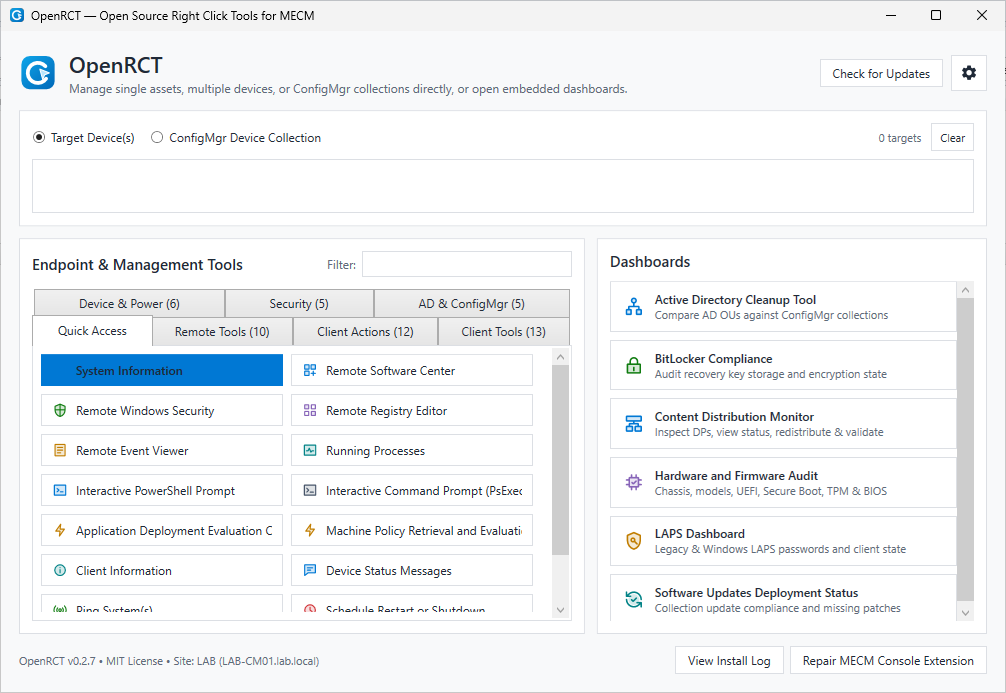
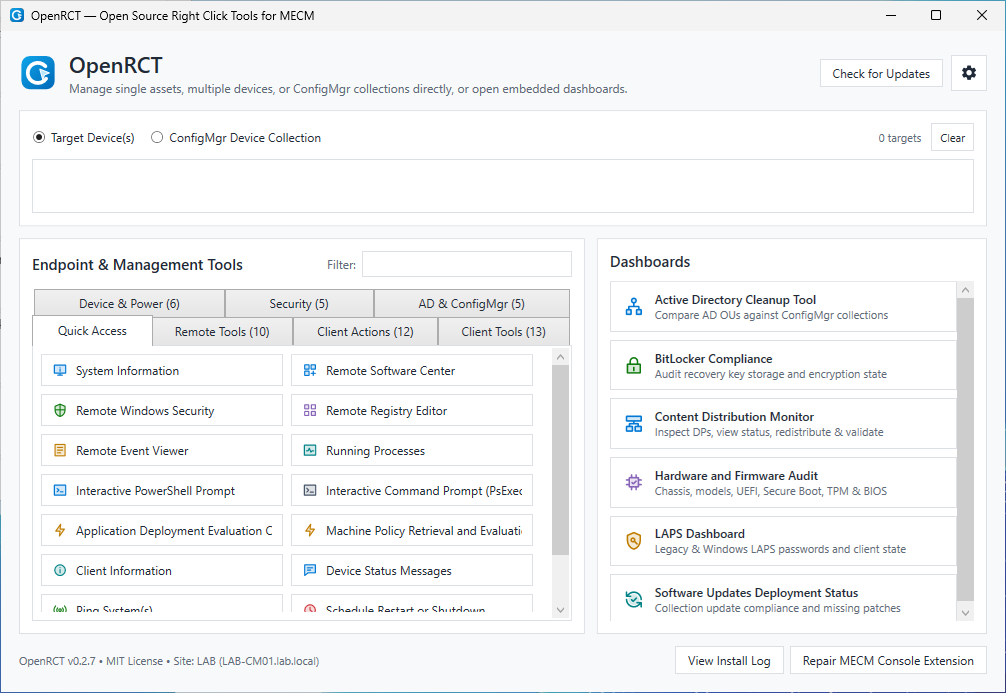
UI: Escape ampersands in DisplayName for MECM context menus, update launcher screenshot, bump to 0.2.8

Changed region(s): [[0.0308, 0.4848, 0.3082, 0.5758], [0.9861, 0.9697, 1.0, 1.0], [0.9861, 0.0, 1.0, 0.0303]]

diff --git a/tests/OpenRCT.Tests/SecurityAndEventViewerTests.cs b/tests/OpenRCT.Tests/SecurityAndEventViewerTests.cs
@@ -99,9 +99,9 @@ namespace OpenRCT.Tests
                 "Remote Tools",
                 "Client Actions",
                 "Client Tools",
-                "Device & Power Tools",
+                "Device && Power Tools",
                 "Security Tools",
-                "Active Directory & ConfigMgr"
+                "Active Directory && ConfigMgr"
             }, deviceGroups);
 
             var deviceItems = deviceXml.Descendants("ActionDescription")
@@ -126,17 +126,20 @@ namespace OpenRCT.Tests
             Assert.Contains("Remote Windows Security", collectionItems);
             Assert.Contains("Client Information", collectionItems);
 
-            // Ensure literal ampersands in MnemonicDisplayName are escaped as && so Win32 context menus render "&"
+            // Ensure literal ampersands in DisplayName and MnemonicDisplayName are escaped as && so MECM WinForms context menus render "&"
             var actionsDir = Path.Combine(root, "console-extensions", "XmlStorage", "Extensions", "Actions");
             foreach (var xmlPath in Directory.GetFiles(actionsDir, "*.xml"))
             {
                 var doc = XDocument.Load(xmlPath);
                 foreach (var elem in doc.Descendants("ActionDescription"))
                 {
-                    var mnemonic = (string?)elem.Attribute("MnemonicDisplayName");
-                    if (!string.IsNullOrEmpty(mnemonic))
+                    foreach (var attrName in new[] { "DisplayName", "MnemonicDisplayName" })
                     {
-                        Assert.DoesNotContain(" & ", mnemonic);
+                        var val = (string?)elem.Attribute(attrName);
+                        if (!string.IsNullOrEmpty(val))
+                        {
+                            Assert.DoesNotContain(" & ", val);
+                        }
                     }
                 }
             }
